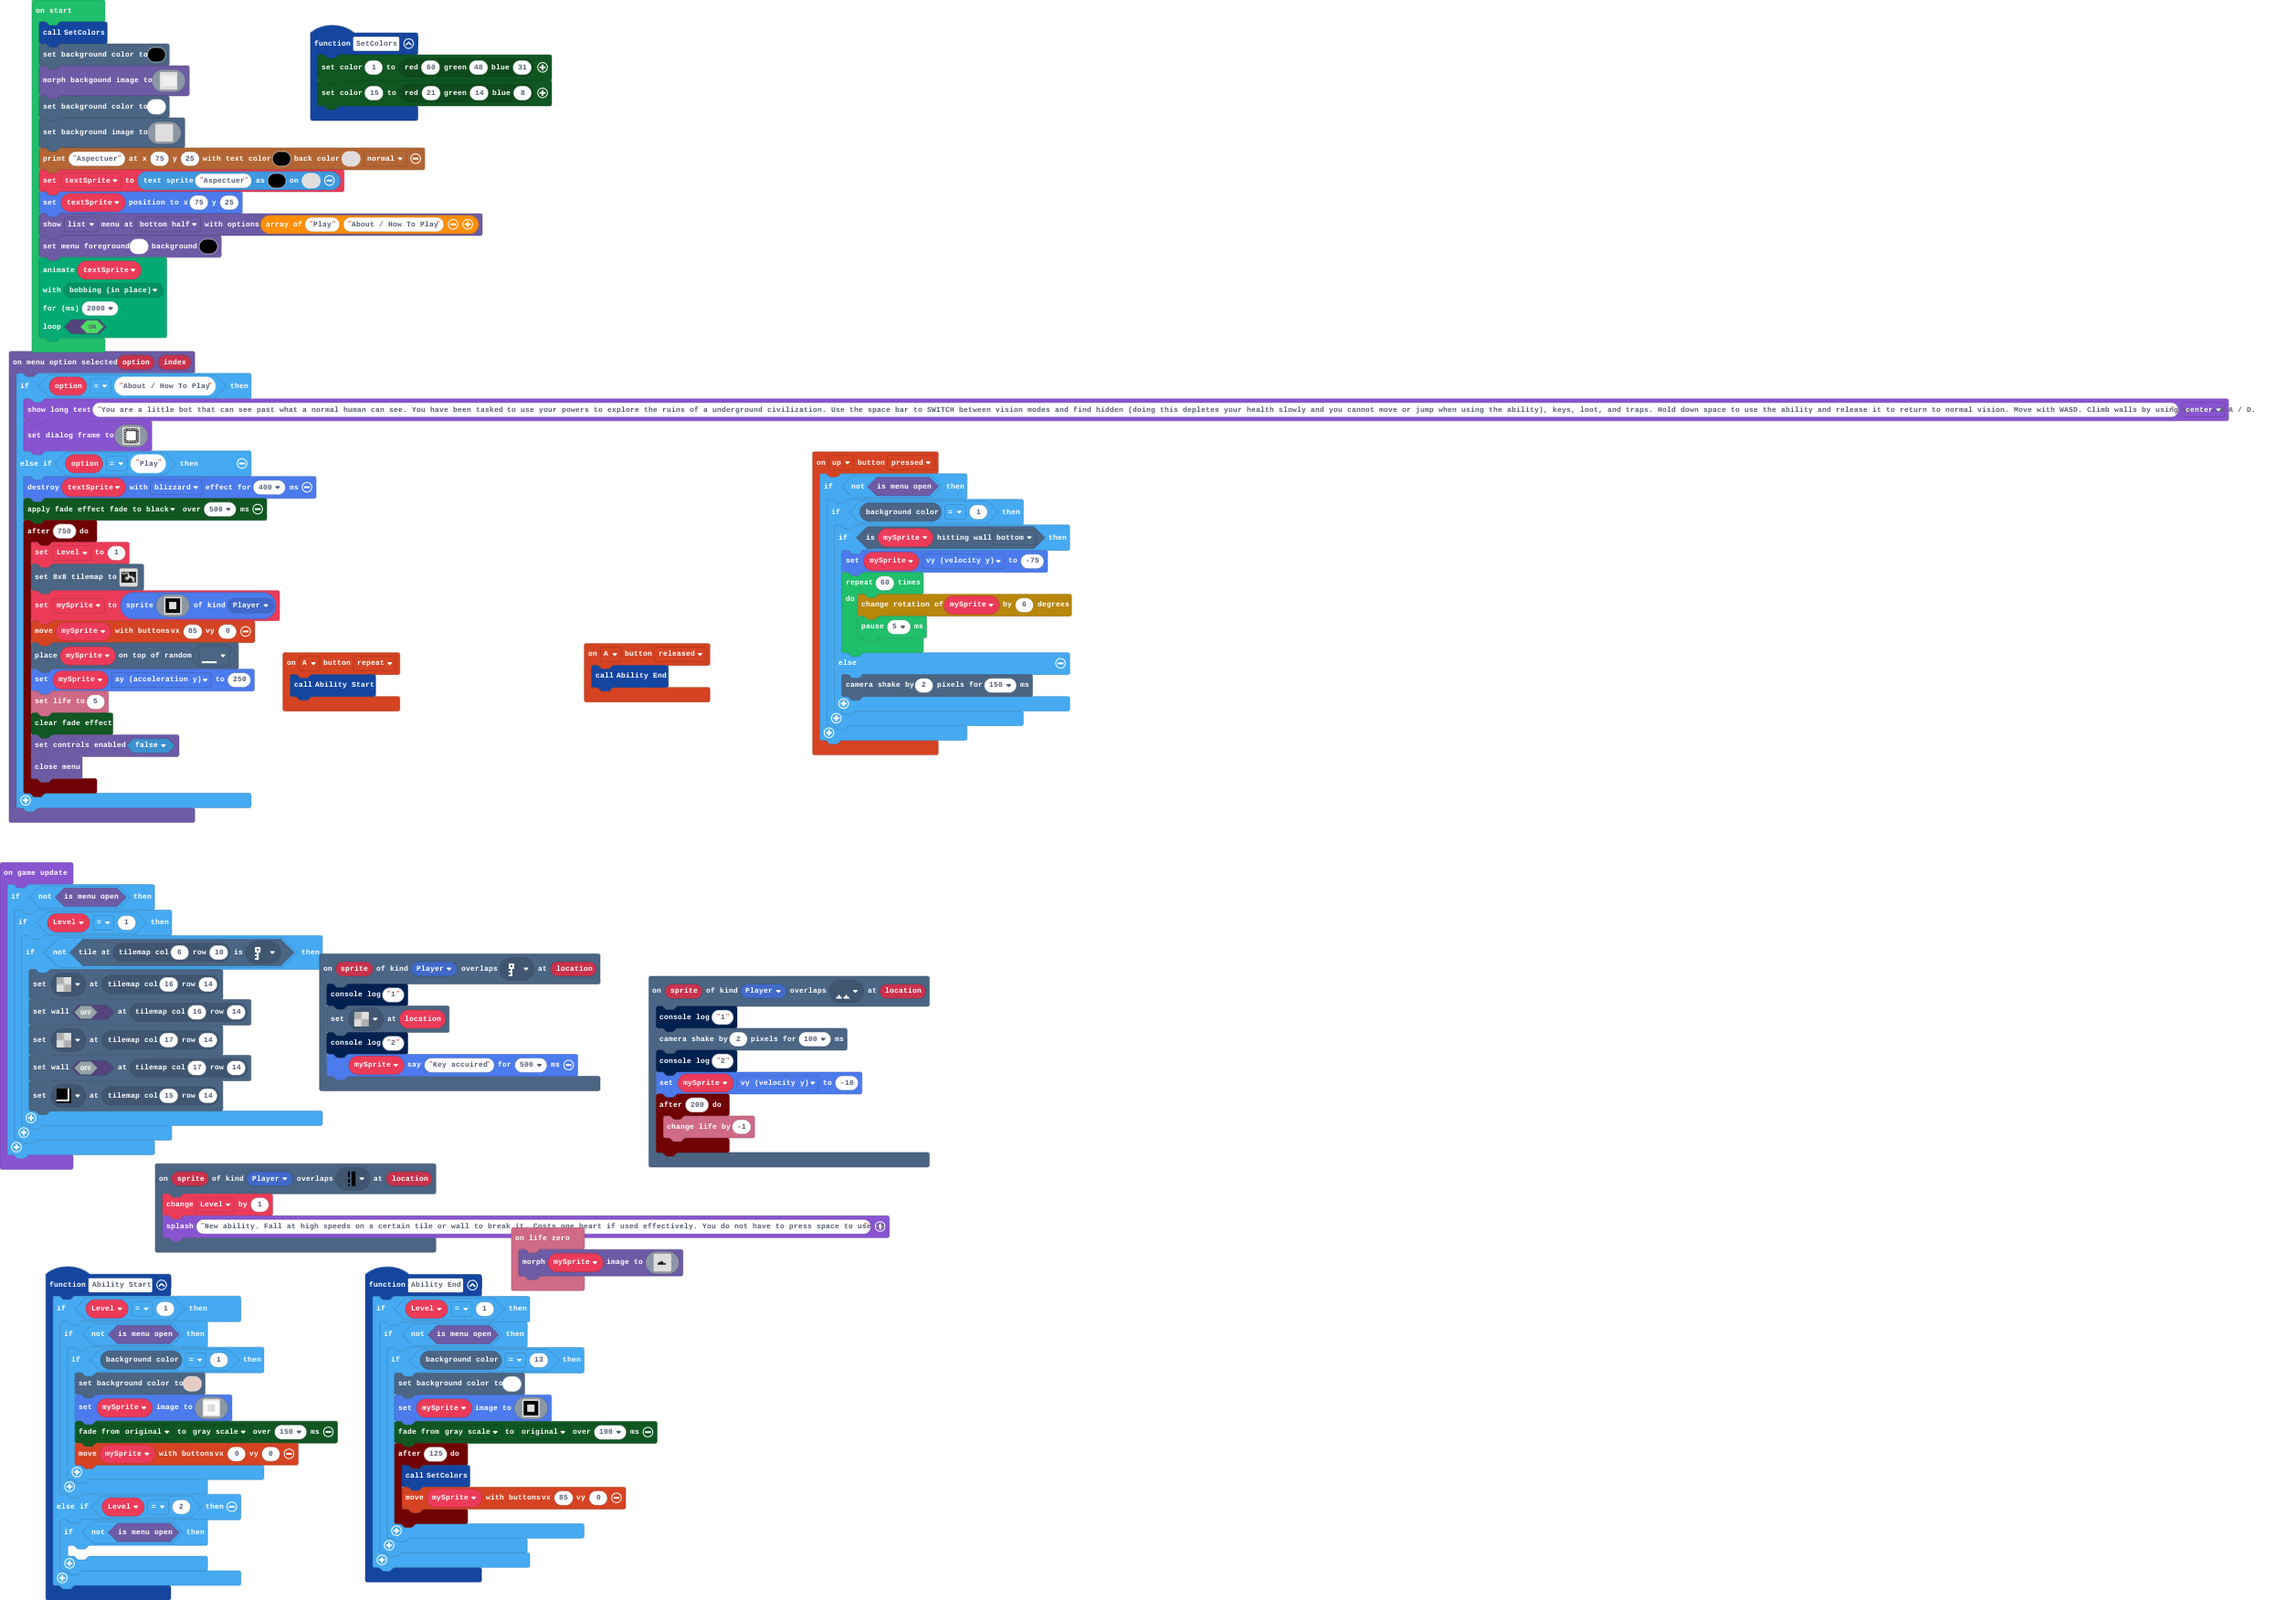
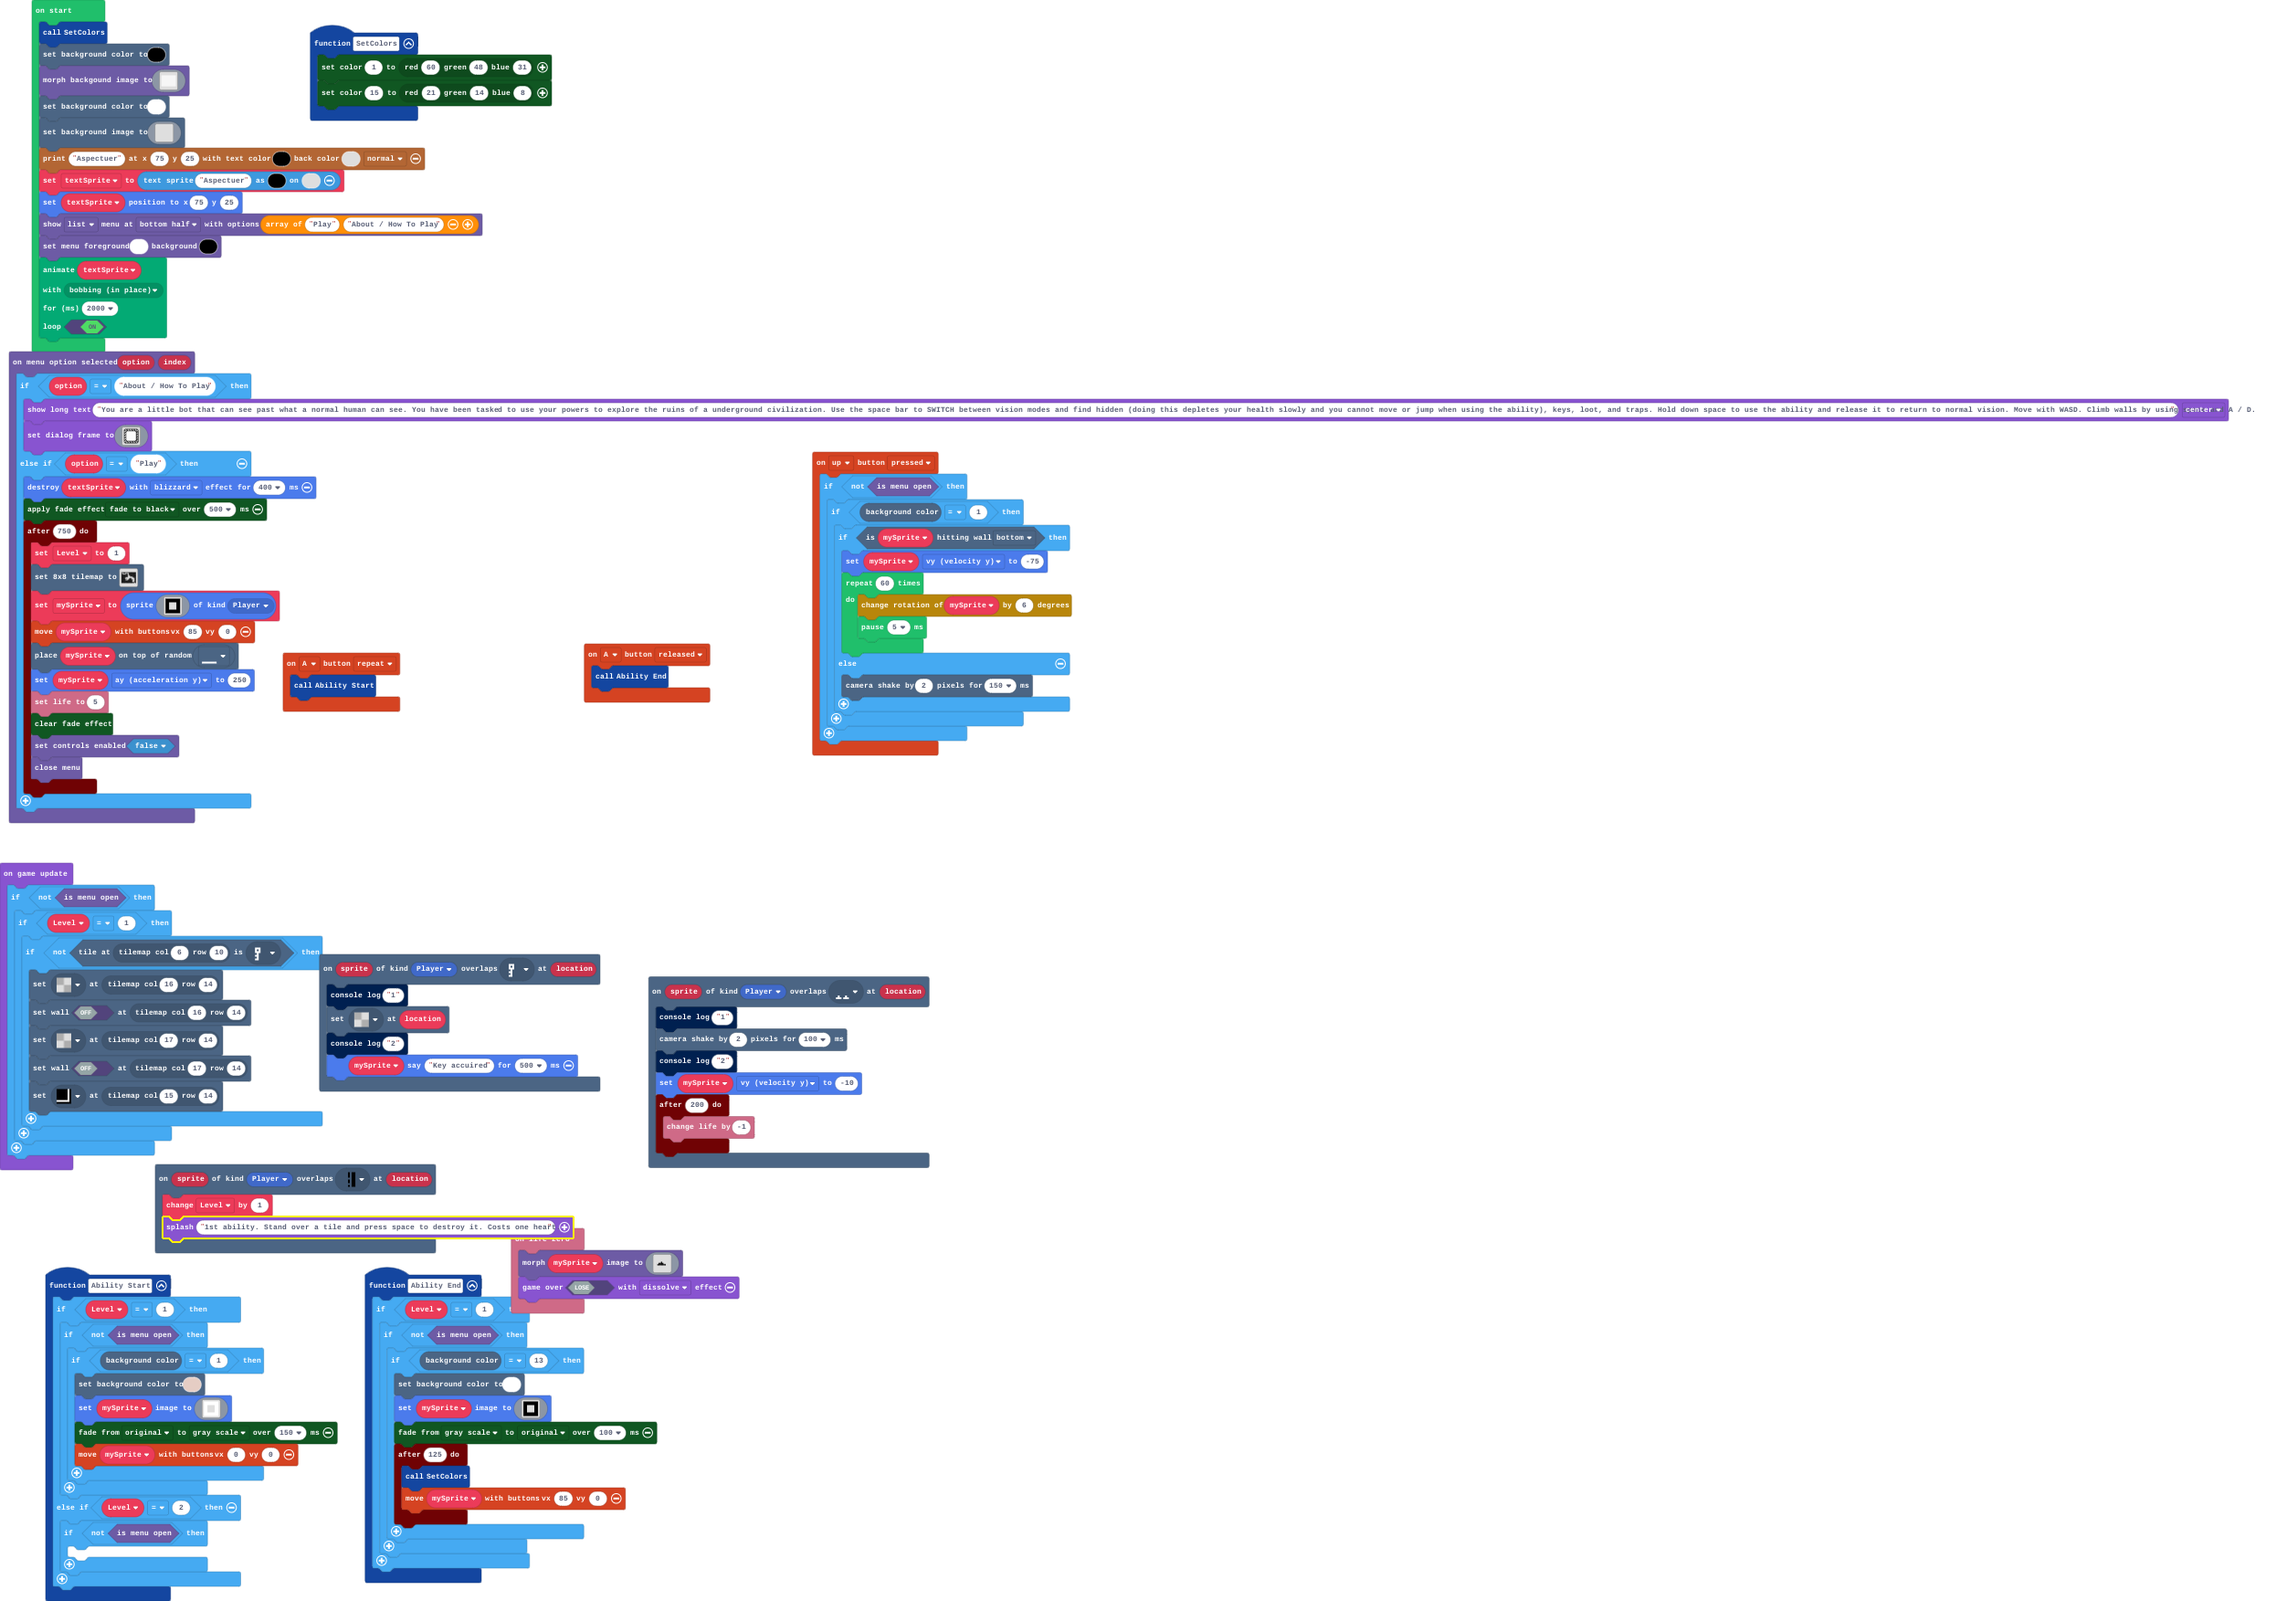
Update main.blocks, main.ts

diff --git a/main.ts b/main.ts
@@ -21,7 +21,7 @@ function Ability_Start () {
 }
 scene.onOverlapTile(SpriteKind.Player, assets.tile`myTile1`, function (sprite, location) {
     Level += 1
-    game.splash("New ability. Fall at high speeds on a certain tile or wall to break it. Costs one heart if used effectively. You do not have to press space to use it.")
+    game.splash("1st ability. Stand over a tile and press space to destroy it. Costs one heart.")
 })
 controller.up.onEvent(ControllerButtonEvent.Pressed, function () {
     if (!(blockMenu.isMenuOpen())) {
@@ -77,6 +77,7 @@ info.onLifeZero(function () {
         . . . f f f f . . . . . 
         . . f f f f f f f . . . 
         `)
+    game.over(false, effects.dissolve)
 })
 controller.A.onEvent(ControllerButtonEvent.Repeated, function () {
     Ability_Start()
